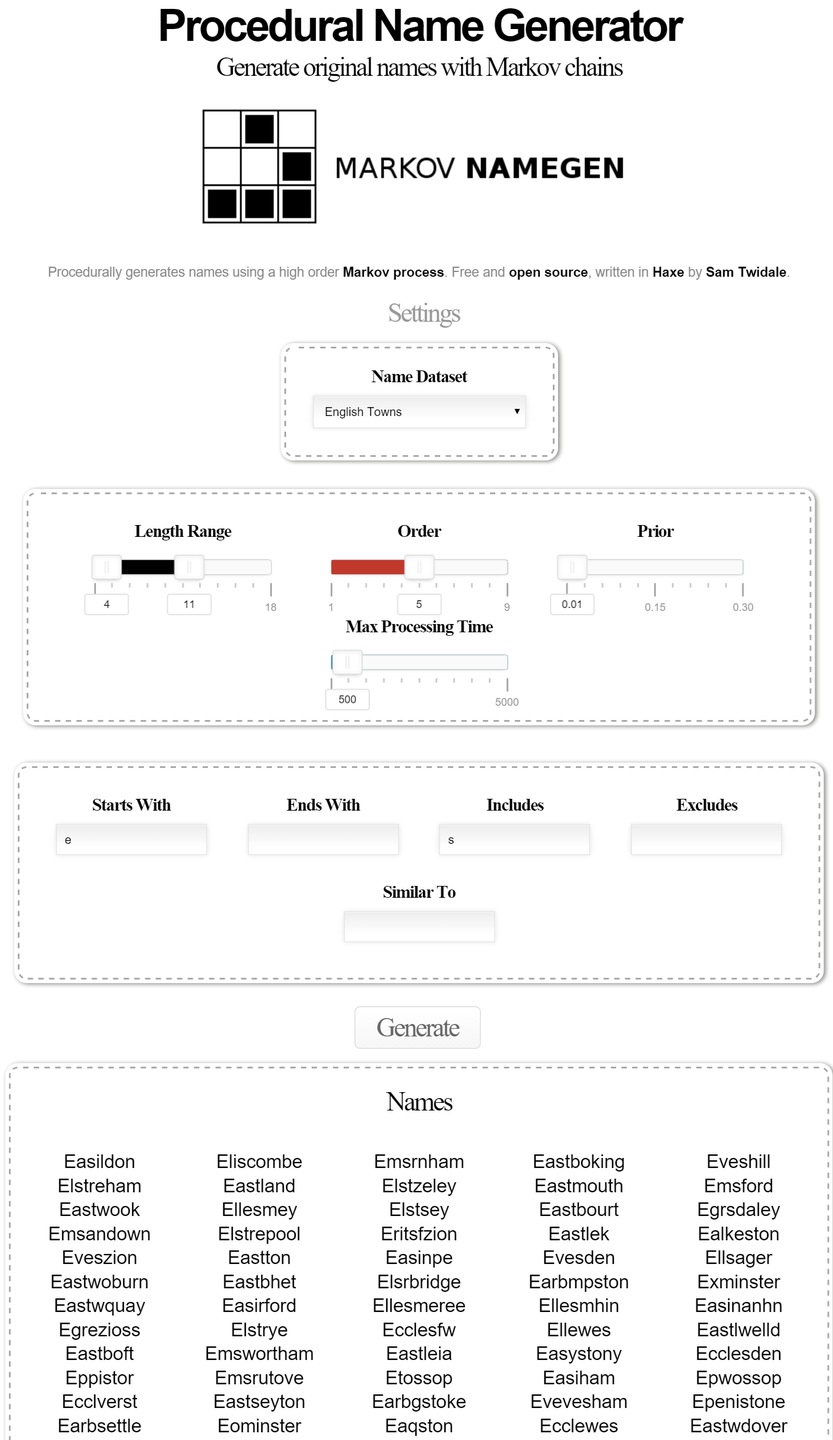
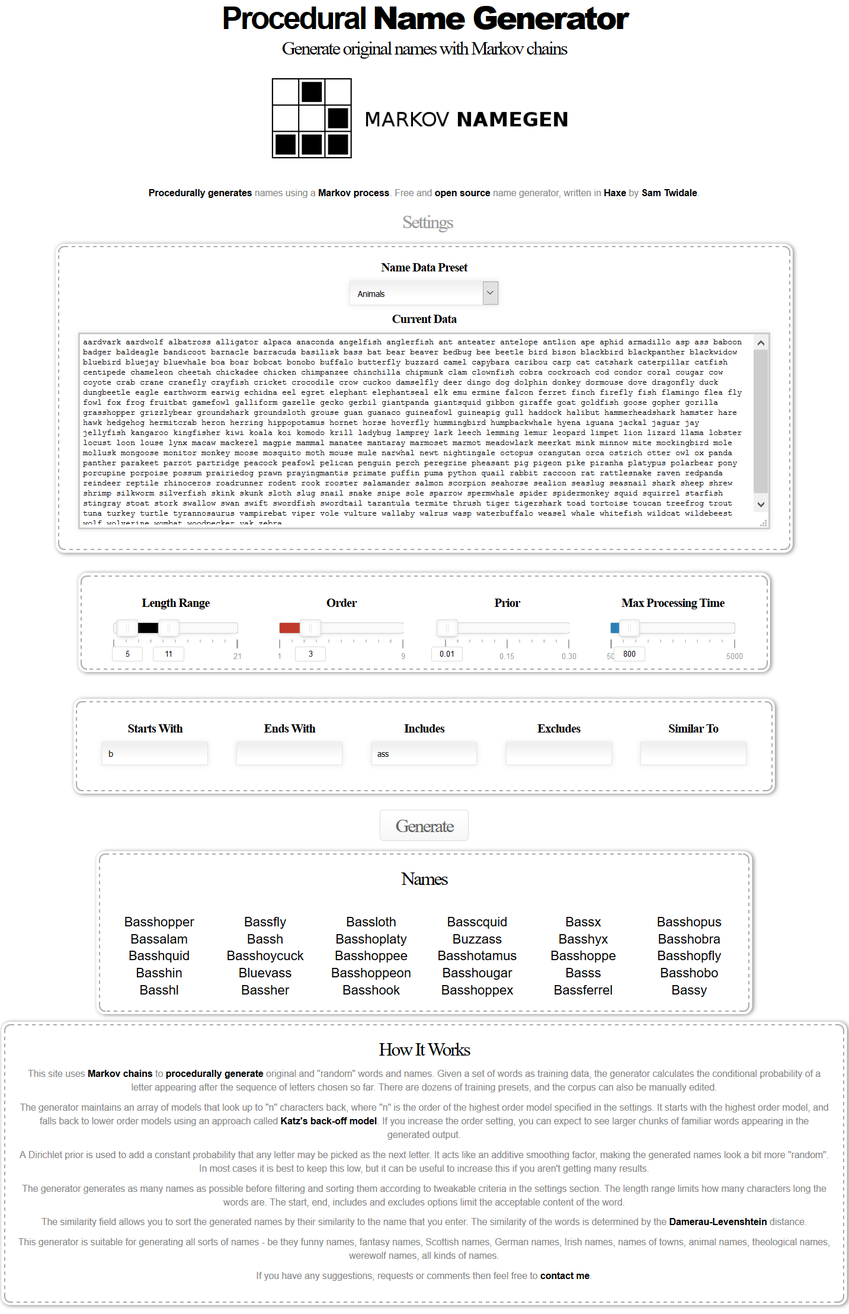
Make corpus editable by adding a text area to settings

diff --git a/bin/release/css/style.min.css b/bin/release/css/style.min.css
@@ -1,1 +1,1 @@
-.tooltip,body{text-align:center}.button,a,p a{text-decoration:none}.button:active,.columnsContainer{position:relative}.button,.stitched{display:inline-block}body{font-family:'Open Sans',sans-serif;background-color:#000;color:#000;font-size:13px}a,abbr,acronym,address,applet,b,big,blockquote,body,caption,center,cite,code,dd,del,dfn,div,dl,dt,em,fieldset,font,form,h1,h2,h3,h4,h5,h6,html,i,iframe,ins,kbd,label,legend,li,object,ol,p,pre,q,s,samp,small,span,strike,strong,sub,sup,table,tbody,td,tfoot,th,thead,tr,tt,u,ul,var{background:0 0;border:0;margin:0;padding:0;vertical-align:baseline;outline:0}h1{font:600 50px "Open Sans",sans-serif;letter-spacing:-3px;margin-bottom:0}h2{font:400 30px "Open Sans";letter-spacing:-2px}h3{font:600 20px "Open Sans";letter-spacing:-1px}p{font-family:"Open Sans",sans-serif;font-size:15px;line-height:22px;color:#888;margin:10px 0}.stitched,a,p a{color:#000}a{font-weight:600}html{-o-user-select:none;-moz-user-select:none;-webkit-user-select:none;user-select:none}li{-o-user-select:text;-moz-user-select:text;-webkit-user-select:text;user-select:text}img{max-width:90%}.leftColumn{margin-bottom:.5em}@media screen and (min-width:47.5em){.leftColumn{margin-right:19.5em}.rightColumn{position:absolute;top:0;right:0;width:18.75em}}.black,.blue,.green,.orange,.red{margin:20px;width:200px;display:inline-block}.red .noUi-base{background:#c0392b}.green .noUi-base{background:#27ae60}.blue .noUi-base{background:#2980b9}.black .noUi-connect{background:#000}.orange .noUi-base{background:orange}.verticalslider{height:50px}.stitched{padding:20px;margin:10px;background:#fff;font-size:21px;line-height:1.3em;border:2px dashed #aaa;border-radius:10px;box-shadow:0 0 0 4px #fff,2px 1px 6px 4px rgba(10,10,0,.5);font-weight:400}input,select,textarea{padding:9px;border:1px solid #E5E5E5;outline:0;background:url(bg_form.png) left top repeat-x #FFF;margin:10px}input,textarea{width:150px;background:-webkit-gradient(linear,left top,left 25,from(#FFF),color-stop(4%,#EEE),to(#FFF));background:-moz-linear-gradient(top,#FFF,#EEE 1px,#FFF 25px);box-shadow:rgba(0,0,0,.1) 0 0 8px;-moz-box-shadow:rgba(0,0,0,.1) 0 0 8px;-webkit-box-shadow:rgba(0,0,0,.1) 0 0 8px}input:focus,input:hover,textarea:focus,textarea:hover{border-color:#C9C9C9;-webkit-box-shadow:rgba(0,0,0,.15) 0 0 8px}label{margin-left:10px;color:#999}select{width:240px;background:-webkit-gradient(linear,left top,left 25,from(#FFF),color-stop(4%,#EEE),to(#FFF));background:-moz-linear-gradient(top,#FFF,#EEE 1px,#FFF 25px);box-shadow:rgba(0,0,0,.1) 0 0 8px;-moz-box-shadow:rgba(0,0,0,.1) 0 0 8px;-webkit-box-shadow:rgba(0,0,0,.1) 0 0 8px}.button{margin:10px;-moz-box-shadow:inset 0 1px 0 0 #fff;-webkit-box-shadow:inset 0 1px 0 0 #fff;box-shadow:inset 0 1px 0 0 #fff;background:-webkit-gradient(linear,left top,left bottom,color-stop(.05,#fff),color-stop(1,#f6f6f6));background:-moz-linear-gradient(top,#fff 5%,#f6f6f6 100%);background:-webkit-linear-gradient(top,#fff 5%,#f6f6f6 100%);background:-o-linear-gradient(top,#fff 5%,#f6f6f6 100%);background:-ms-linear-gradient(top,#fff 5%,#f6f6f6 100%);background:linear-gradient(to bottom,#fff 5%,#f6f6f6 100%);filter:progid:DXImageTransform.Microsoft.gradient(startColorstr='#ffffff', endColorstr='#f6f6f6', GradientType=0);background-color:#fff;-moz-border-radius:6px;-webkit-border-radius:6px;border-radius:6px;border:1px solid #dcdcdc;cursor:pointer;color:#666;font-size:15px;font-weight:700;padding:6px 24px;text-shadow:0 1px 0 #fff}.button:hover{background:-webkit-gradient(linear,left top,left bottom,color-stop(.05,#f6f6f6),color-stop(1,#fff));background:-moz-linear-gradient(top,#f6f6f6 5%,#fff 100%);background:-webkit-linear-gradient(top,#f6f6f6 5%,#fff 100%);background:-o-linear-gradient(top,#f6f6f6 5%,#fff 100%);background:-ms-linear-gradient(top,#f6f6f6 5%,#fff 100%);background:linear-gradient(to bottom,#f6f6f6 5%,#fff 100%);filter:progid:DXImageTransform.Microsoft.gradient(startColorstr='#f6f6f6', endColorstr='#ffffff', GradientType=0);background-color:#f6f6f6}.button:active{top:1px}.sliders,.textboxes{margin:20px}#accordion #check-1{display:none}#accordion label{background:#fff;border-radius:.25em;cursor:pointer;display:block;margin-bottom:.125em;padding:.25em 1em;z-index:20}#accordion label:hover{color:#000}#accordion input:checked+label{background:#fff;border-bottom-right-radius:0;border-bottom-left-radius:0;margin-bottom:0}#accordion .settings{background:#fff;height:0;overflow:hidden;z-index:10}#accordion .settings p{padding:1em}#accordion input:checked~.settings{height:auto}.container{display:inline-block;margin:10px}a:hover{color:#555}.tooltip{display:block;position:absolute;border:1px solid #D9D9D9;font:400 12px/12px Arial;border-radius:3px;background:#fff;top:43px;padding:5px;left:-9px;width:50px}.tooltip strong{display:block;padding:2px}.logo{margin:15px}#currentnames{-moz-column-count:6;-moz-column-gap:20px;-webkit-column-count:6;-webkit-column-gap:20px;column-count:6;column-gap:20px;-webkit-column-width:150px;-moz-column-width:150px;column-width:150px}
+.tooltip,body{text-align:center}.stitched,a,body,p a{color:#000}.button,a,p a{text-decoration:none}.button,.stitched{display:inline-block}body{font-family:'Open Sans',sans-serif;background-color:#000;font-size:13px}a,abbr,acronym,address,applet,b,big,blockquote,body,caption,center,cite,code,dd,del,dfn,div,dl,dt,em,fieldset,font,form,h1,h2,h3,h4,h5,h6,html,i,iframe,ins,kbd,label,legend,li,object,ol,p,pre,q,s,samp,small,span,strike,strong,sub,sup,table,tbody,td,tfoot,th,thead,tr,tt,u,ul,var{background:0 0;border:0;margin:0;padding:0;vertical-align:baseline;outline:0}h1{font:600 50px "Open Sans",sans-serif;letter-spacing:-3px;margin-bottom:0}h2{font:400 30px "Open Sans";letter-spacing:-2px}h3{font:600 20px "Open Sans";letter-spacing:-1px}p{font-family:"Open Sans",sans-serif;font-size:15px;line-height:22px;color:#888;margin:10px 0}a{font-weight:600}html{-o-user-select:none;-moz-user-select:none;-webkit-user-select:none}li{-o-user-select:text;-moz-user-select:text;-webkit-user-select:text}img{max-width:90%}.black,.blue,.green,.orange,.red{margin:20px;width:200px;display:inline-block}.red .noUi-base{background:#c0392b}.green .noUi-base{background:#27ae60}.blue .noUi-base{background:#2980b9}.black .noUi-connect{background:#000}.orange .noUi-base{background:orange}.verticalslider{height:50px}.stitched{padding:20px;margin:10px;background:#fff;font-size:21px;line-height:1.3em;border:2px dashed #aaa;border-radius:10px;box-shadow:0 0 0 4px #fff,2px 1px 6px 4px rgba(10,10,0,.5);font-weight:400}input,select,textarea{padding:9px;border:1px solid #E5E5E5;outline:0;background:url(bg_form.png) left top repeat-x #FFF;margin:10px}input,textarea{width:150px;background:-webkit-gradient(linear,left top,left 25,from(#FFF),color-stop(4%,#EEE),to(#FFF));background:-moz-linear-gradient(top,#FFF,#EEE 1px,#FFF 25px);box-shadow:rgba(0,0,0,.1) 0 0 8px;-moz-box-shadow:rgba(0,0,0,.1) 0 0 8px;-webkit-box-shadow:rgba(0,0,0,.1) 0 0 8px}input:focus,input:hover,textarea:focus,textarea:hover{border-color:#C9C9C9;-webkit-box-shadow:rgba(0,0,0,.15) 0 0 8px}label{margin-left:10px;color:#999}select{width:240px;background:-webkit-gradient(linear,left top,left 25,from(#FFF),color-stop(4%,#EEE),to(#FFF));background:-moz-linear-gradient(top,#FFF,#EEE 1px,#FFF 25px);box-shadow:rgba(0,0,0,.1) 0 0 8px;-moz-box-shadow:rgba(0,0,0,.1) 0 0 8px;-webkit-box-shadow:rgba(0,0,0,.1) 0 0 8px}.button{margin:10px;-moz-box-shadow:inset 0 1px 0 0 #fff;-webkit-box-shadow:inset 0 1px 0 0 #fff;box-shadow:inset 0 1px 0 0 #fff;background:-webkit-gradient(linear,left top,left bottom,color-stop(.05,#fff),color-stop(1,#f6f6f6));background:-moz-linear-gradient(top,#fff 5%,#f6f6f6 100%);background:-webkit-linear-gradient(top,#fff 5%,#f6f6f6 100%);background:-o-linear-gradient(top,#fff 5%,#f6f6f6 100%);background:-ms-linear-gradient(top,#fff 5%,#f6f6f6 100%);background:linear-gradient(to bottom,#fff 5%,#f6f6f6 100%);background-color:#fff;-moz-border-radius:6px;-webkit-border-radius:6px;border-radius:6px;border:1px solid #dcdcdc;cursor:pointer;color:#666;font-size:15px;font-weight:700;padding:6px 24px;text-shadow:0 1px 0 #fff}.button:hover{background:-webkit-gradient(linear,left top,left bottom,color-stop(.05,#f6f6f6),color-stop(1,#fff));background:-moz-linear-gradient(top,#f6f6f6 5%,#fff 100%);background:-webkit-linear-gradient(top,#f6f6f6 5%,#fff 100%);background:-o-linear-gradient(top,#f6f6f6 5%,#fff 100%);background:-ms-linear-gradient(top,#f6f6f6 5%,#fff 100%);background:linear-gradient(to bottom,#f6f6f6 5%,#fff 100%);background-color:#f6f6f6}.button:active{position:relative;top:1px}.sliders,.textboxes{margin:20px}#accordion #check-1{display:none}#accordion label{background:#fff;border-radius:.25em;cursor:pointer;display:block;margin-bottom:.125em;padding:.25em 1em;z-index:20}#accordion label:hover{color:#000}#accordion input:checked+label{background:#fff;border-bottom-right-radius:0;border-bottom-left-radius:0;margin-bottom:0}#accordion .settings{background:#fff;height:0;overflow:hidden;z-index:10}#accordion .settings p{padding:1em}#accordion input:checked~.settings{height:auto}.container{display:inline-block;margin:10px}a:hover{color:#555}.tooltip{display:block;position:absolute;border:1px solid #D9D9D9;font:400 12px/12px Arial;border-radius:3px;background:#fff;top:43px;padding:5px;left:-9px;width:50px}.logo{margin:15px}#currentnames{-moz-column-count:6;-moz-column-gap:20px;-webkit-column-count:6;-webkit-column-gap:20px;column-count:6;column-gap:20px;-webkit-column-width:150px;-moz-column-width:150px;column-width:150px}#trainingdataedit{resize:horizontal;min-width:80vw;min-height:300px;max-height:900px;border:3px solid #ccc;padding:5px;background-image:url(bg.gif);background-position:bottom right;background-repeat:no-repeat}

diff --git a/bin/release/index.html b/bin/release/index.html
@@ -22,10 +22,10 @@
 				<h2>Generate original names with Markov chains</h2>
 				
 				<a href="https://github.com/Tw1ddle/MarkovNameGenerator" target="_blank">
-					<img class="logo" src="assets/images/markovnamegen_logo.png" alt="procedural name generation markov-namegen haxelib logo">
+					<img class="logo" src="assets/images/markovnamegen_logo.png" alt="procedural name generation, name generator markov-namegen haxelib logo">
 				</a>
 				
-				<p><a href="https://en.wikipedia.org/wiki/Procedural_generation" target="_blank">Procedurally generates</a> names using a high order <a href="https://en.wikipedia.org/wiki/Markov_process" target="_blank">Markov process</a>. Free and <a href="https://github.com/Tw1ddle/MarkovNameGenerator" target="_blank">open source</a>, written in <a href="http://haxe.org/" target="_blank">Haxe</a> by <a href="https://twitter.com/Sam_Twidale" target="_blank">Sam Twidale</a>.</p>
+				<p><a href="https://en.wikipedia.org/wiki/Procedural_generation" target="_blank">Procedurally generates</a> names using a <a href="https://en.wikipedia.org/wiki/Markov_process" target="_blank">Markov process</a>. Free and <a href="https://github.com/Tw1ddle/MarkovNameGenerator" target="_blank">open source</a> name generator, written in <a href="http://haxe.org/" target="_blank">Haxe</a> by <a href="https://twitter.com/Sam_Twidale" target="_blank">Sam Twidale</a>.</p>
 			</div>
 		</section>
 		
@@ -37,7 +37,7 @@
 
 				<div class="settings">
 					<div class="stitched">
-						<h3>Name Dataset</h3>
+						<h3>Name Data Preset</h3>
 					
 						<select id="trainingdatalist">
 						  <option value="tolkienesque_forenames">Tolkienesque Forenames</option>
@@ -60,6 +60,10 @@
 						  <option value="plantscommon">Plants (Common Names)</option>
 						  <option value="pokemon">Pokémon</option>
 						</select>
+						
+						<h3>Current Data</h3>
+						<textarea id="trainingdataedit">
+						</textarea>
 					</div>
 					
 					<div class="sliders">
@@ -145,10 +149,10 @@
 		<section id="three" class="main style3">
 			<div class="container stitched">
 				<h2>How It Works</h2>
-				<p>This site uses  <a href="https://en.wikipedia.org/wiki/Markov_chain" target="_blank">Markov chains</a> to <a href="https://en.wikipedia.org/wiki/Procedural_generation" target="_blank">procedurally generate</a> original and "random" words and names. Given a set of words as training data, the generator calculates the conditional probability of a letter appearing after the sequence of letters chosen so far.</p>
+				<p>This site uses  <a href="https://en.wikipedia.org/wiki/Markov_chain" target="_blank">Markov chains</a> to <a href="https://en.wikipedia.org/wiki/Procedural_generation" target="_blank">procedurally generate</a> original and "random" words and names. Given a set of words as training data, the generator calculates the conditional probability of a letter appearing after the sequence of letters chosen so far. There are dozens of training presets, and the corpus can also be manually edited.</p>
 				<p>The generator maintains an array of models that look up to "n" characters back, where "n" is the order of the highest order model specified in the settings. It starts with the highest order model, and falls back to lower order models using an approach called <a href="https://en.wikipedia.org/wiki/Katz%27s_back-off_model" target="_blank">Katz's back-off model</a>. If you increase the order setting, you can expect to see larger chunks of familiar words appearing in the generated output.</p>
-				<p>A <a href="https://en.wikipedia.org/wiki/Prior_probability" target="_blank">Dirichlet prior</a> is used to add a constant probability that any letter may be picked as the next letter. It acts like an additive smoothing factor, making the generated names look a bit more "random". In most cases it is best to keep this low, but it can be useful to increase this if you aren't seeing many results.</p>
-				<p>The generator generates as many words as possible before filtering and sorting them according to the tweakable criteria in the settings section. The length range limits how many characters long the words are. The start, end, includes and excludes options limit the acceptable content of the word.</p>
+				<p>A Dirichlet prior is used to add a constant probability that any letter may be picked as the next letter. It acts like an additive smoothing factor, making the generated names look a bit more "random". In most cases it is best to keep this low, but it can be useful to increase this if you aren't getting many results.</p>
+				<p>The generator generates as many names as possible before filtering and sorting them according to tweakable criteria in the settings section. The length range limits how many characters long the words are. The start, end, includes and excludes options limit the acceptable content of the word.</p>
 				<p>The similarity field allows you to sort the generated names by their similarity to the name that you enter. The similarity of the words is determined by the <a href="https://en.wikipedia.org/wiki/Damerau%E2%80%93Levenshtein_distance" target="_blank">Damerau-Levenshtein</a> distance.</p>
 				<p>This generator is suitable for generating all sorts of names - be they funny names, fantasy names, Scottish names, German names, Irish names, names of towns, animal names, theological names, werewolf names, all kinds of names.</p>
 				<p>If you have any suggestions, requests or comments then feel free to <a href="http://samcodes.co.uk/contact/" target="_blank">contact me</a>.</p>

diff --git a/bin/debug/index.html b/bin/debug/index.html
@@ -22,10 +22,10 @@
 				<h2>Generate original names with Markov chains</h2>
 				
 				<a href="https://github.com/Tw1ddle/MarkovNameGenerator" target="_blank">
-					<img class="logo" src="assets/images/markovnamegen_logo.png" alt="procedural name generation markov-namegen haxelib logo">
+					<img class="logo" src="assets/images/markovnamegen_logo.png" alt="procedural name generation, name generator markov-namegen haxelib logo">
 				</a>
 				
-				<p><a href="https://en.wikipedia.org/wiki/Procedural_generation" target="_blank">Procedurally generates</a> names using a high order <a href="https://en.wikipedia.org/wiki/Markov_process" target="_blank">Markov process</a>. Free and <a href="https://github.com/Tw1ddle/MarkovNameGenerator" target="_blank">open source</a>, written in <a href="http://haxe.org/" target="_blank">Haxe</a> by <a href="https://twitter.com/Sam_Twidale" target="_blank">Sam Twidale</a>.</p>
+				<p><a href="https://en.wikipedia.org/wiki/Procedural_generation" target="_blank">Procedurally generates</a> names using a <a href="https://en.wikipedia.org/wiki/Markov_process" target="_blank">Markov process</a>. Free and <a href="https://github.com/Tw1ddle/MarkovNameGenerator" target="_blank">open source</a> name generator, written in <a href="http://haxe.org/" target="_blank">Haxe</a> by <a href="https://twitter.com/Sam_Twidale" target="_blank">Sam Twidale</a>.</p>
 			</div>
 		</section>
 		
@@ -37,7 +37,7 @@
 
 				<div class="settings">
 					<div class="stitched">
-						<h3>Name Dataset</h3>
+						<h3>Name Data Preset</h3>
 					
 						<select id="trainingdatalist">
 						  <option value="tolkienesque_forenames">Tolkienesque Forenames</option>
@@ -60,6 +60,10 @@
 						  <option value="plantscommon">Plants (Common Names)</option>
 						  <option value="pokemon">Pokémon</option>
 						</select>
+						
+						<h3>Current Data</h3>
+						<textarea id="trainingdataedit">
+						</textarea>
 					</div>
 					
 					<div class="sliders">
@@ -145,10 +149,10 @@
 		<section id="three" class="main style3">
 			<div class="container stitched">
 				<h2>How It Works</h2>
-				<p>This site uses  <a href="https://en.wikipedia.org/wiki/Markov_chain" target="_blank">Markov chains</a> to <a href="https://en.wikipedia.org/wiki/Procedural_generation" target="_blank">procedurally generate</a> original and "random" words and names. Given a set of words as training data, the generator calculates the conditional probability of a letter appearing after the sequence of letters chosen so far.</p>
+				<p>This site uses  <a href="https://en.wikipedia.org/wiki/Markov_chain" target="_blank">Markov chains</a> to <a href="https://en.wikipedia.org/wiki/Procedural_generation" target="_blank">procedurally generate</a> original and "random" words and names. Given a set of words as training data, the generator calculates the conditional probability of a letter appearing after the sequence of letters chosen so far. There are dozens of training presets, and the corpus can also be manually edited.</p>
 				<p>The generator maintains an array of models that look up to "n" characters back, where "n" is the order of the highest order model specified in the settings. It starts with the highest order model, and falls back to lower order models using an approach called <a href="https://en.wikipedia.org/wiki/Katz%27s_back-off_model" target="_blank">Katz's back-off model</a>. If you increase the order setting, you can expect to see larger chunks of familiar words appearing in the generated output.</p>
-				<p>A Dirichlet prior is used to add a constant probability that any letter may be picked as the next letter. It acts like an additive smoothing factor, making the generated names look a bit more "random". In most cases it is best to keep this low, but it can be useful to increase this if you aren't seeing many results.</p>
-				<p>The generator generates as many words as possible before filtering and sorting them according to the tweakable criteria in the settings section. The length range limits how many characters long the words are. The start, end, includes and excludes options limit the acceptable content of the word.</p>
+				<p>A Dirichlet prior is used to add a constant probability that any letter may be picked as the next letter. It acts like an additive smoothing factor, making the generated names look a bit more "random". In most cases it is best to keep this low, but it can be useful to increase this if you aren't getting many results.</p>
+				<p>The generator generates as many names as possible before filtering and sorting them according to tweakable criteria in the settings section. The length range limits how many characters long the words are. The start, end, includes and excludes options limit the acceptable content of the word.</p>
 				<p>The similarity field allows you to sort the generated names by their similarity to the name that you enter. The similarity of the words is determined by the <a href="https://en.wikipedia.org/wiki/Damerau%E2%80%93Levenshtein_distance" target="_blank">Damerau-Levenshtein</a> distance.</p>
 				<p>This generator is suitable for generating all sorts of names - be they funny names, fantasy names, Scottish names, German names, Irish names, names of towns, animal names, theological names, werewolf names, all kinds of names.</p>
 				<p>If you have any suggestions, requests or comments then feel free to <a href="http://samcodes.co.uk/contact/" target="_blank">contact me</a>.</p>

diff --git a/bin/debug/js/game.js b/bin/debug/js/game.js
@@ -6,6 +6,11 @@ function $extend(from, fields) {
 	return proto;
 }
 var HxOverrides = function() { };
+HxOverrides.cca = function(s,index) {
+	var x = s.charCodeAt(index);
+	if(x != x) return undefined;
+	return x;
+};
 HxOverrides.substr = function(s,pos,len) {
 	if(pos != null && pos != 0 && len != null && len < 0) return "";
 	if(len == null) len = s.length;
@@ -110,6 +115,7 @@ Main.prototype = {
 	}
 	,createElements: function() {
 		this.trainingDataElement = window.document.getElementById("trainingdatalist");
+		this.trainingDataTextEdit = window.document.getElementById("trainingdataedit");
 		this.orderElement = window.document.getElementById("order");
 		this.priorElement = window.document.getElementById("prior");
 		this.maxProcessingTimeElement = window.document.getElementById("maxtime");
@@ -125,6 +131,7 @@ Main.prototype = {
 	}
 	,onWindowLoaded: function() {
 		this.trainingDataElement = window.document.getElementById("trainingdatalist");
+		this.trainingDataTextEdit = window.document.getElementById("trainingdataedit");
 		this.orderElement = window.document.getElementById("order");
 		this.priorElement = window.document.getElementById("prior");
 		this.maxProcessingTimeElement = window.document.getElementById("maxtime");
@@ -156,6 +163,7 @@ Main.prototype = {
 		this.similarElement.value = this.similar;
 		this.createSliders();
 		this.addEventListeners();
+		this.trainingDataElementSelectionChanged();
 	}
 	,createSliders: function() {
 		var _g = this;
@@ -195,12 +203,15 @@ Main.prototype = {
 	,addEventListeners: function() {
 		var _g = this;
 		this.trainingDataElement.addEventListener("change",function() {
-			if(_g.trainingDataElement.value != null) _g.trainingDataKey = _g.trainingDataElement.value;
+			_g.trainingDataElementSelectionChanged();
+		},false);
+		this.trainingDataTextEdit.addEventListener("change",function() {
 		},false);
 		this.generateElement.addEventListener("click",function() {
-			var data = _g.trainingData.get(_g.trainingDataKey);
-			if(!(data != null)) throw new js__$Boot_HaxeError("FAIL: data != null");
-			_g.generate(data);
+			var data = _g.trainingDataTextEdit.value;
+			if(data == null || data.length == 0) return;
+			var arr = data.split(" ");
+			if(arr.length > 0) _g.generate(arr);
 		},false);
 		this.startsWithElement.addEventListener("change",function() {
 			if(_g.startsWithElement.value != null) _g.startsWith = _g.startsWithElement.value.toLowerCase();
@@ -217,6 +228,23 @@ Main.prototype = {
 		this.similarElement.addEventListener("change",function() {
 			if(_g.similarElement.value != null) _g.similar = _g.similarElement.value.toLowerCase();
 		},false);
+	}
+	,trainingDataElementSelectionChanged: function() {
+		if(this.trainingDataElement.value != null) {
+			this.trainingDataKey = this.trainingDataElement.value;
+			if(this.trainingData.get(this.trainingDataKey) != null) {
+				var s = "";
+				var data = this.trainingData.get(this.trainingDataKey);
+				var _g = 0;
+				while(_g < data.length) {
+					var i = data[_g];
+					++_g;
+					s += i + " ";
+				}
+				s = StringTools.rtrim(s);
+				this.trainingDataTextEdit.value = s;
+			}
+		}
 	}
 	,createTooltips: function(slider) {
 		var tipHandles = slider.getElementsByClassName("noUi-handle");
@@ -290,6 +318,16 @@ StringTools.endsWith = function(s,end) {
 	var elen = end.length;
 	var slen = s.length;
 	return slen >= elen && HxOverrides.substr(s,slen - elen,elen) == end;
+};
+StringTools.isSpace = function(s,pos) {
+	var c = HxOverrides.cca(s,pos);
+	return c > 8 && c < 14 || c == 32;
+};
+StringTools.rtrim = function(s) {
+	var l = s.length;
+	var r = 0;
+	while(r < l && StringTools.isSpace(s,l - r - 1)) r++;
+	if(r > 0) return HxOverrides.substr(s,0,l - r); else return s;
 };
 StringTools.replace = function(s,sub,by) {
 	return s.split(sub).join(by);

diff --git a/bin/release/js/game.js b/bin/release/js/game.js
@@ -6,6 +6,11 @@ function $extend(from, fields) {
 	return proto;
 }
 var HxOverrides = function() { };
+HxOverrides.cca = function(s,index) {
+	var x = s.charCodeAt(index);
+	if(x != x) return undefined;
+	return x;
+};
 HxOverrides.substr = function(s,pos,len) {
 	if(pos != null && pos != 0 && len != null && len < 0) return "";
 	if(len == null) len = s.length;
@@ -110,6 +115,7 @@ Main.prototype = {
 	}
 	,createElements: function() {
 		this.trainingDataElement = window.document.getElementById("trainingdatalist");
+		this.trainingDataTextEdit = window.document.getElementById("trainingdataedit");
 		this.orderElement = window.document.getElementById("order");
 		this.priorElement = window.document.getElementById("prior");
 		this.maxProcessingTimeElement = window.document.getElementById("maxtime");
@@ -125,6 +131,7 @@ Main.prototype = {
 	}
 	,onWindowLoaded: function() {
 		this.trainingDataElement = window.document.getElementById("trainingdatalist");
+		this.trainingDataTextEdit = window.document.getElementById("trainingdataedit");
 		this.orderElement = window.document.getElementById("order");
 		this.priorElement = window.document.getElementById("prior");
 		this.maxProcessingTimeElement = window.document.getElementById("maxtime");
@@ -156,6 +163,7 @@ Main.prototype = {
 		this.similarElement.value = this.similar;
 		this.createSliders();
 		this.addEventListeners();
+		this.trainingDataElementSelectionChanged();
 	}
 	,createSliders: function() {
 		var _g = this;
@@ -195,12 +203,15 @@ Main.prototype = {
 	,addEventListeners: function() {
 		var _g = this;
 		this.trainingDataElement.addEventListener("change",function() {
-			if(_g.trainingDataElement.value != null) _g.trainingDataKey = _g.trainingDataElement.value;
+			_g.trainingDataElementSelectionChanged();
+		},false);
+		this.trainingDataTextEdit.addEventListener("change",function() {
 		},false);
 		this.generateElement.addEventListener("click",function() {
-			var data = _g.trainingData.get(_g.trainingDataKey);
-			if(!(data != null)) throw new js__$Boot_HaxeError("FAIL: data != null");
-			_g.generate(data);
+			var data = _g.trainingDataTextEdit.value;
+			if(data == null || data.length == 0) return;
+			var arr = data.split(" ");
+			if(arr.length > 0) _g.generate(arr);
 		},false);
 		this.startsWithElement.addEventListener("change",function() {
 			if(_g.startsWithElement.value != null) _g.startsWith = _g.startsWithElement.value.toLowerCase();
@@ -217,6 +228,23 @@ Main.prototype = {
 		this.similarElement.addEventListener("change",function() {
 			if(_g.similarElement.value != null) _g.similar = _g.similarElement.value.toLowerCase();
 		},false);
+	}
+	,trainingDataElementSelectionChanged: function() {
+		if(this.trainingDataElement.value != null) {
+			this.trainingDataKey = this.trainingDataElement.value;
+			if(this.trainingData.get(this.trainingDataKey) != null) {
+				var s = "";
+				var data = this.trainingData.get(this.trainingDataKey);
+				var _g = 0;
+				while(_g < data.length) {
+					var i = data[_g];
+					++_g;
+					s += i + " ";
+				}
+				s = StringTools.rtrim(s);
+				this.trainingDataTextEdit.value = s;
+			}
+		}
 	}
 	,createTooltips: function(slider) {
 		var tipHandles = slider.getElementsByClassName("noUi-handle");
@@ -290,6 +318,16 @@ StringTools.endsWith = function(s,end) {
 	var elen = end.length;
 	var slen = s.length;
 	return slen >= elen && HxOverrides.substr(s,slen - elen,elen) == end;
+};
+StringTools.isSpace = function(s,pos) {
+	var c = HxOverrides.cca(s,pos);
+	return c > 8 && c < 14 || c == 32;
+};
+StringTools.rtrim = function(s) {
+	var l = s.length;
+	var r = 0;
+	while(r < l && StringTools.isSpace(s,l - r - 1)) r++;
+	if(r > 0) return HxOverrides.substr(s,0,l - r); else return s;
 };
 StringTools.replace = function(s,sub,by) {
 	return s.split(sub).join(by);

diff --git a/bin/debug/css/style.css b/bin/debug/css/style.css
@@ -252,3 +252,15 @@ a:hover {
 	-moz-column-width: 150px;
 	column-width: 150px;
 }
+
+#trainingdataedit {
+	resize: horizontal;
+	min-width: 80vw;
+	min-height: 300px;
+	max-height: 900px;
+	border: 3px solid #cccccc;
+	padding: 5px;
+	background-image: url(bg.gif);
+	background-position: bottom right;
+	background-repeat: no-repeat;
+}
